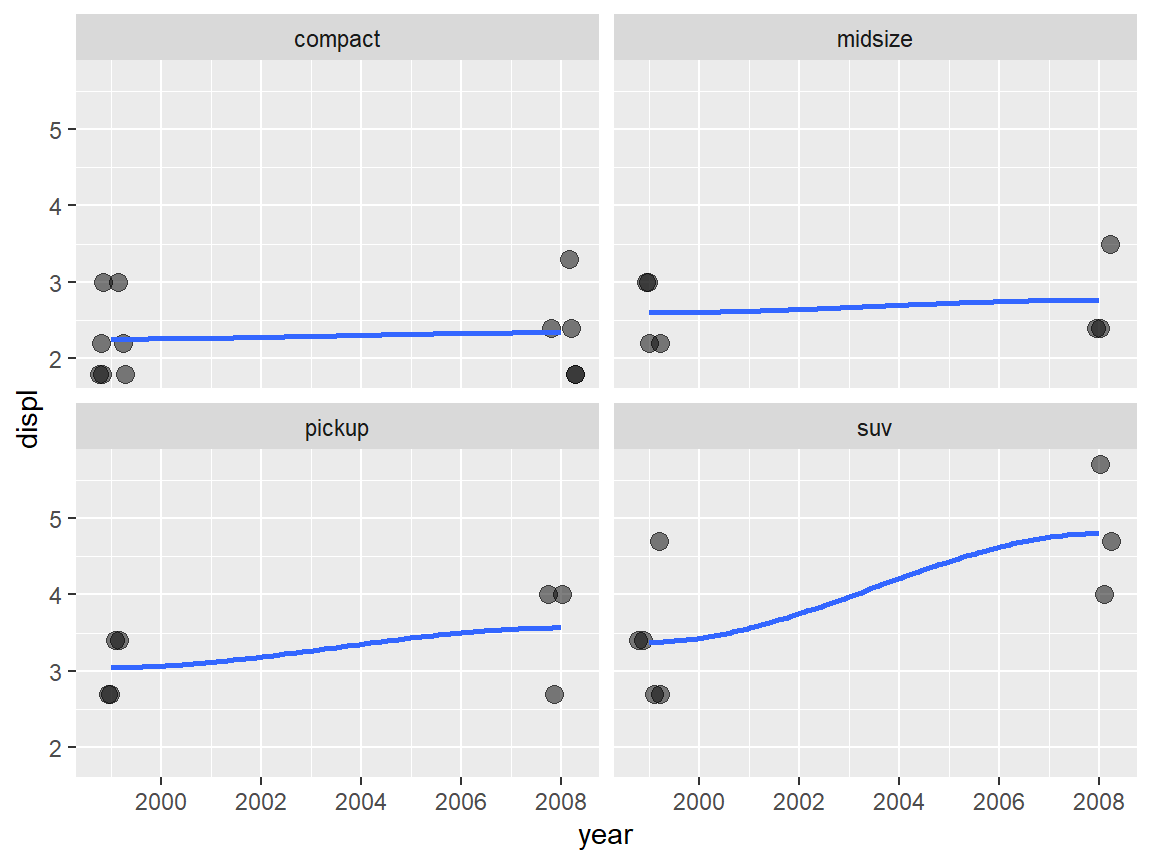
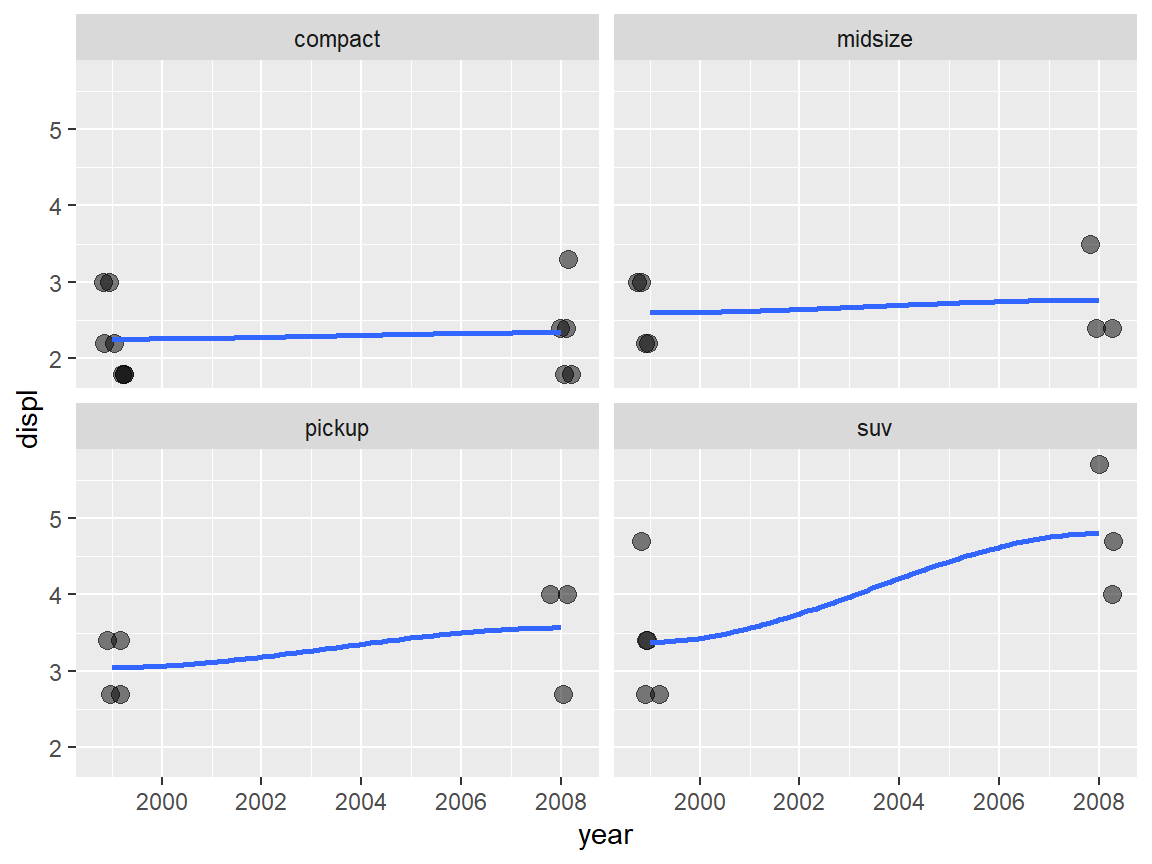
Built site for gh-pages

diff --git a/Lab7/Lab7.html b/Lab7/Lab7.html
@@ -207,17 +207,17 @@ window.Quarto = {
 <h2 class="anchored" data-anchor-id="load-the-packages">Load the packages</h2>
 <div class="cell">
 <div class="sourceCode cell-code" id="cb1"><pre class="sourceCode r code-with-copy"><code class="sourceCode r"><span id="cb1-1"><a href="#cb1-1" aria-hidden="true" tabindex="-1"></a><span class="fu">library</span>(tidyverse)</span>
-<span id="cb1-2"><a href="#cb1-2" aria-hidden="true" tabindex="-1"></a><span class="fu">library</span>(babynames)</span>
-<span id="cb1-3"><a href="#cb1-3" aria-hidden="true" tabindex="-1"></a><span class="fu">library</span>(nycflights13)</span></code><button title="Copy to Clipboard" class="code-copy-button"><i class="bi"></i></button></pre></div>
+<span id="cb1-2"><a href="#cb1-2" aria-hidden="true" tabindex="-1"></a><span class="fu">library</span>(nycflights13)</span></code><button title="Copy to Clipboard" class="code-copy-button"><i class="bi"></i></button></pre></div>
 </div>
 </section>
 <section id="question-1" class="level2">
 <h2 class="anchored" data-anchor-id="question-1">Question 1</h2>
-<p>We use the <code>babynames</code> tibble from the <strong>babynames</strong> package for this question. The tibble contains names of male and female babies born in the US from 1880 to 2017. There are 1.9M rows and 5 columns.</p>
+<p>We use the <code>diamonds</code> tibble from the <strong>ggplot2</strong> package for this question. This tibble contains the prices and other attributes of almost 54,000 diamonds. There are 53940 rows and 10 columns. You may use <code>?diamonds</code> to find more information about this data.</p>
 <ol type="a">
-<li><p><strong>[10 pts]</strong> Please draw a line chart of proportion of <strong>boys</strong> with the name <strong>Garrett (or a name and gender you choose)</strong> across the years.</p></li>
-<li><p><strong>[10 pts]</strong> Find all the names that were used by exactly <span class="math inline">\(5\)</span> or <span class="math inline">\(6\)</span> children during the 1980s, i.e.&nbsp;1980-1989. [Hint: You may need to use <code>distinct()</code>.]</p></li>
-<li><p><strong>[10 pts]</strong> Filter <code>babynames</code> to just <strong>boys</strong> born in <strong>2015</strong>, select the <em>name</em> and <em>n</em> columns, arrange those columns so that the most popular names appear near the top.</p></li>
+<li><p><strong>[5 pts]</strong> Use <code>mutate()</code> to create a new variable, <code>unitprice</code>, that calculates the price per carat in the tibble <code>diamonds</code>.</p></li>
+<li><p><strong>[10 pts]</strong> Which cut category (Fair, Good, Very Good, Premium, Ideal) exhibits the least or greatest variability in unit price? To explore this, create a boxplot comparing <code>unitprice</code> vs quality of the cut. Additionally, use <code>group_by()</code> and <code>dplyr::summarize()</code> to calculate the standard deviation of unit price for each cut category. Provide comments on your findings.</p></li>
+<li><p><strong>[5 pts]</strong> Which color category (D, E, F, G, H, I, J) has the most diamonds? Please use <code>count()</code> to get the number of diamonds for each color category. In addition, answer this question by creating a barplot of variable <code>color</code>. Provide comments on your findings.</p></li>
+<li><p><strong>[10 pts]</strong> Which combination of cut and color has the highest average unit price for diamonds larger than 1 carat? To answer this question, please filter the <code>diamonds</code> dataset for diamonds larger than 1 cart, and select the <code>unitprice</code>, <code>cut</code>, and <code>color</code> columns. Use <code>group_by()</code> and <code>dplyr::summarize()</code> to calculate <code>avgprice</code> for each cut and color combination. Then use <code>arrange()</code> to sort the results in descending order of average unit price. Provide comments on your findings.</p></li>
 </ol>
 <div style="height:30px;">
 
@@ -233,7 +233,7 @@ window.Quarto = {
 <div class="cell-output-display">
 <div>
 <figure class="figure">
-<p><img src="Lab7_files/figure-html/unnamed-chunk-2-1.png" style="width:60.0%;height:60.0%" class="figure-img"></p>
+<p><img src="Lab7_files/figure-html/unnamed-chunk-7-1.png" style="width:60.0%;height:60.0%" class="figure-img"></p>
 </figure>
 </div>
 </div>
@@ -246,7 +246,7 @@ window.Quarto = {
 <div class="cell-output-display">
 <div>
 <figure class="figure">
-<p><img src="Lab7_files/figure-html/unnamed-chunk-3-1.png" style="width:60.0%;height:60.0%" class="figure-img"></p>
+<p><img src="Lab7_files/figure-html/unnamed-chunk-8-1.png" style="width:60.0%;height:60.0%" class="figure-img"></p>
 </figure>
 </div>
 </div>

diff --git a/16-dplyr/16-dplyr.html b/16-dplyr/16-dplyr.html
@@ -254,7 +254,7 @@ pre > code.sourceCode > span > a:first-child::before { text-decoration: underlin
 <section id="dplyr" class="level2">
 <h2 class="anchored" data-anchor-id="dplyr">dplyr</h2>
 <blockquote class="blockquote">
-<p><img src="dplyr_logo.png" class="img-fluid" style="width:5.0%"></p>
+<p><img src="dplyr_logo.png" class="img-fluid" style="width:10.0%"></p>
 </blockquote>
 <ul>
 <li>Core member in tidyverse</li>
@@ -402,7 +402,7 @@ pre > code.sourceCode > span > a:first-child::before { text-decoration: underlin
 <section id="logical-tests-and-boolean-operators" class="level3">
 <h3 class="anchored" data-anchor-id="logical-tests-and-boolean-operators">Logical Tests and Boolean Operators</h3>
 <blockquote class="blockquote">
-<p><img src="logical tests.jpg" class="img-fluid" style="width:20.0%" alt="Logical Tests"> <img src="boolean operators.jpg" class="img-fluid" style="width:20.0%" alt="Boolean Operators"></p>
+<p><img src="logical tests.jpg" class="img-fluid" style="width:40.0%" alt="Logical Tests"> <img src="boolean operators.jpg" class="img-fluid" style="width:40.0%" alt="Boolean Operators"></p>
 </blockquote>
 </section>
 </section>
@@ -937,7 +937,7 @@ pre > code.sourceCode > span > a:first-child::before { text-decoration: underlin
 <li>you type <code>\\(</code> to match <code>(</code>, which is the separator.</li>
 </ul>
 <blockquote class="blockquote">
-<p><img src="Stringr str_split.jpg" class="img-fluid" style="width:45.0%"></p>
+<p><img src="Stringr str_split.jpg" class="img-fluid" style="width:80.0%"></p>
 </blockquote>
 <ul>
 <li>Please refer to the stringr cheat sheet for more information.</li>
@@ -1001,7 +1001,7 @@ pre > code.sourceCode > span > a:first-child::before { text-decoration: underlin
 <ul>
 <li>Find summary statistics by group</li>
 </ul>
-<p><img src="group_by and summarize.png" class="img-fluid" style="width:60.0%"></p>
+<p><img src="group_by and summarize.png" class="img-fluid" style="width:80.0%"></p>
 <!-- * Find group_mean of variable `Var1` by group (variable: GROUP_FACTOR) from the data frame `df`  -->
 <!-- > `df %>% group_by(GROUP_FACTOR) %>% summarize(group_mean = mean(var1))` -->
 <!-- * Find counts by group (variable: GROUP_FACTOR) from the data frame `df`  -->

diff --git a/05. lablist.html b/05. lablist.html
@@ -137,8 +137,9 @@ ul.task-list li input[type="checkbox"] {
 <li><a href="./Lab5/Lab5.html">Lab 5</a></li>
 <li><a href="./Lab6HelpDoc/Lab6HelpDoc.html">Lab 6 Help Document: Illustrate S3 System – U of I Women’s Basketball Team example</a></li>
 <li><a href="./Lab6/Lab6.html">Lab 6</a></li>
+<li><a href="./Lab7/Lab7.html">Lab 7</a></li>
 </ul>
-<!-- * [Lab 7](Lab7/Lab7.qmd) -->
+<!--  -->
 <!-- * [Lab 8](Lab8/Lab8.qmd) -->
 
 
